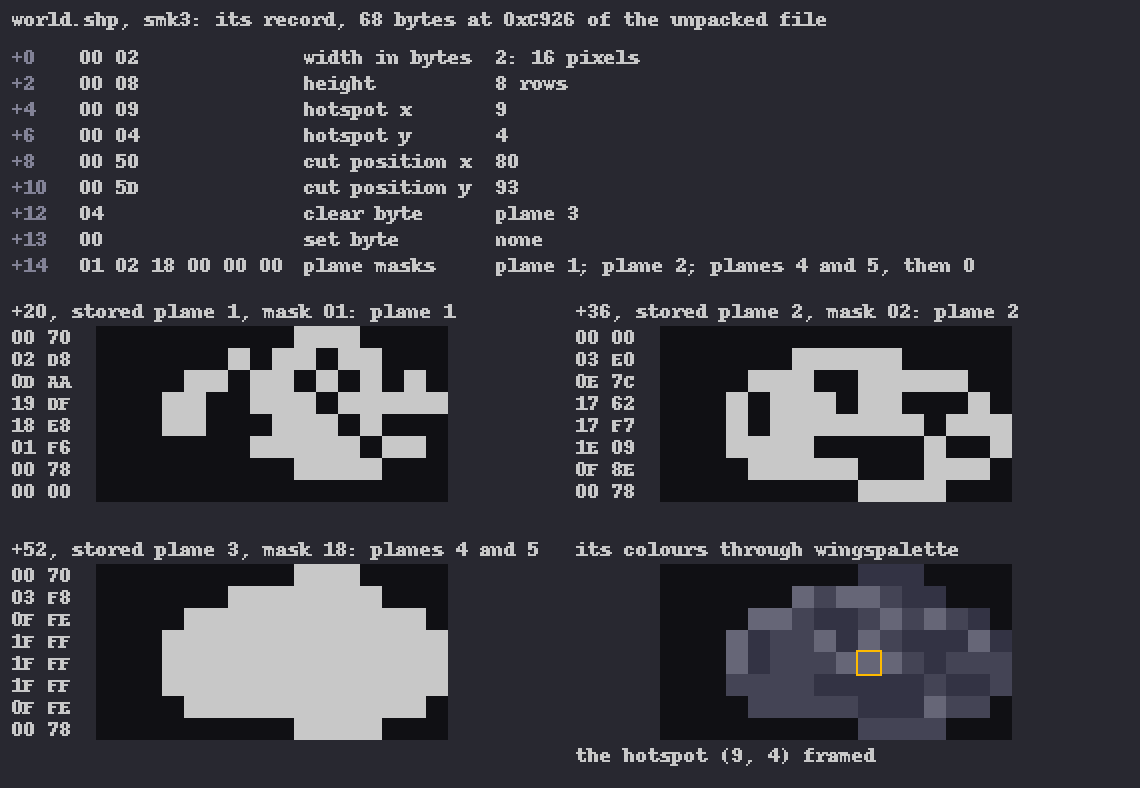
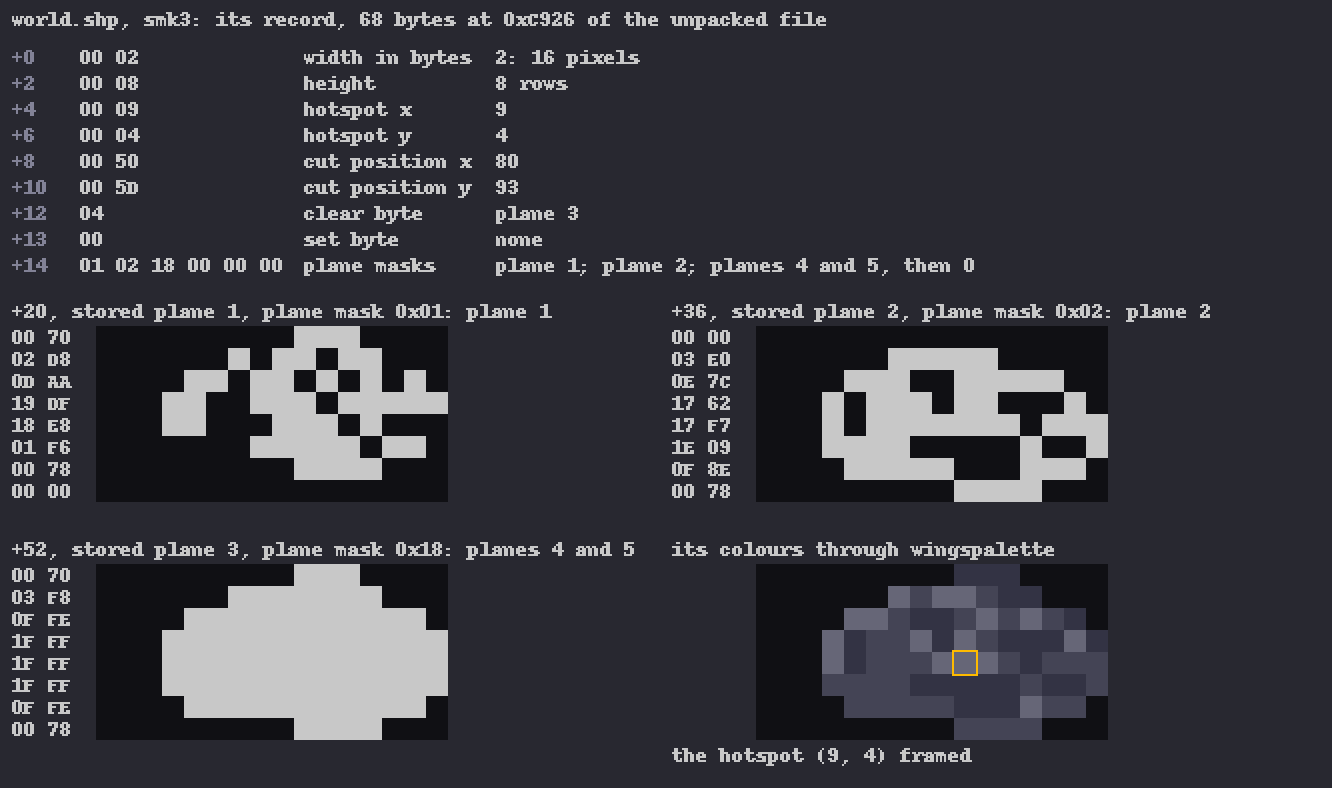
book: chapter 12's figures after the review: the record's plane masks with 0x, a contact sheet of japcarrier.shp, the clipped blit's diagram widened and its logic function named

Changed region(s): [[0.0, 0.0609, 0.8904, 0.6396], [0.0, 0.6701, 0.8904, 0.9746], [0.0, 0.0, 0.7368, 0.0305]]

diff --git a/book/tools/figures.py b/book/tools/figures.py
@@ -984,7 +984,7 @@ def make_record(figure, path):
     header_h = len(fields) * line
     blocks_y = top + header_h + 10
     columns = figure.get('columns', 2)
-    blocks = [('+%d, stored plane %d, mask %02X: %s' % (20 + i * wb * height, i + 1, mask,
+    blocks = [('+%d, stored plane %d, plane mask 0x%02X: %s' % (20 + i * wb * height, i + 1, mask,
                                                        planes_named(mask)), data, bits)
               for i, (mask, data, bits) in enumerate(planes)]
     blocks.append(('its colours through %s' % figure['palette'], None, None))
